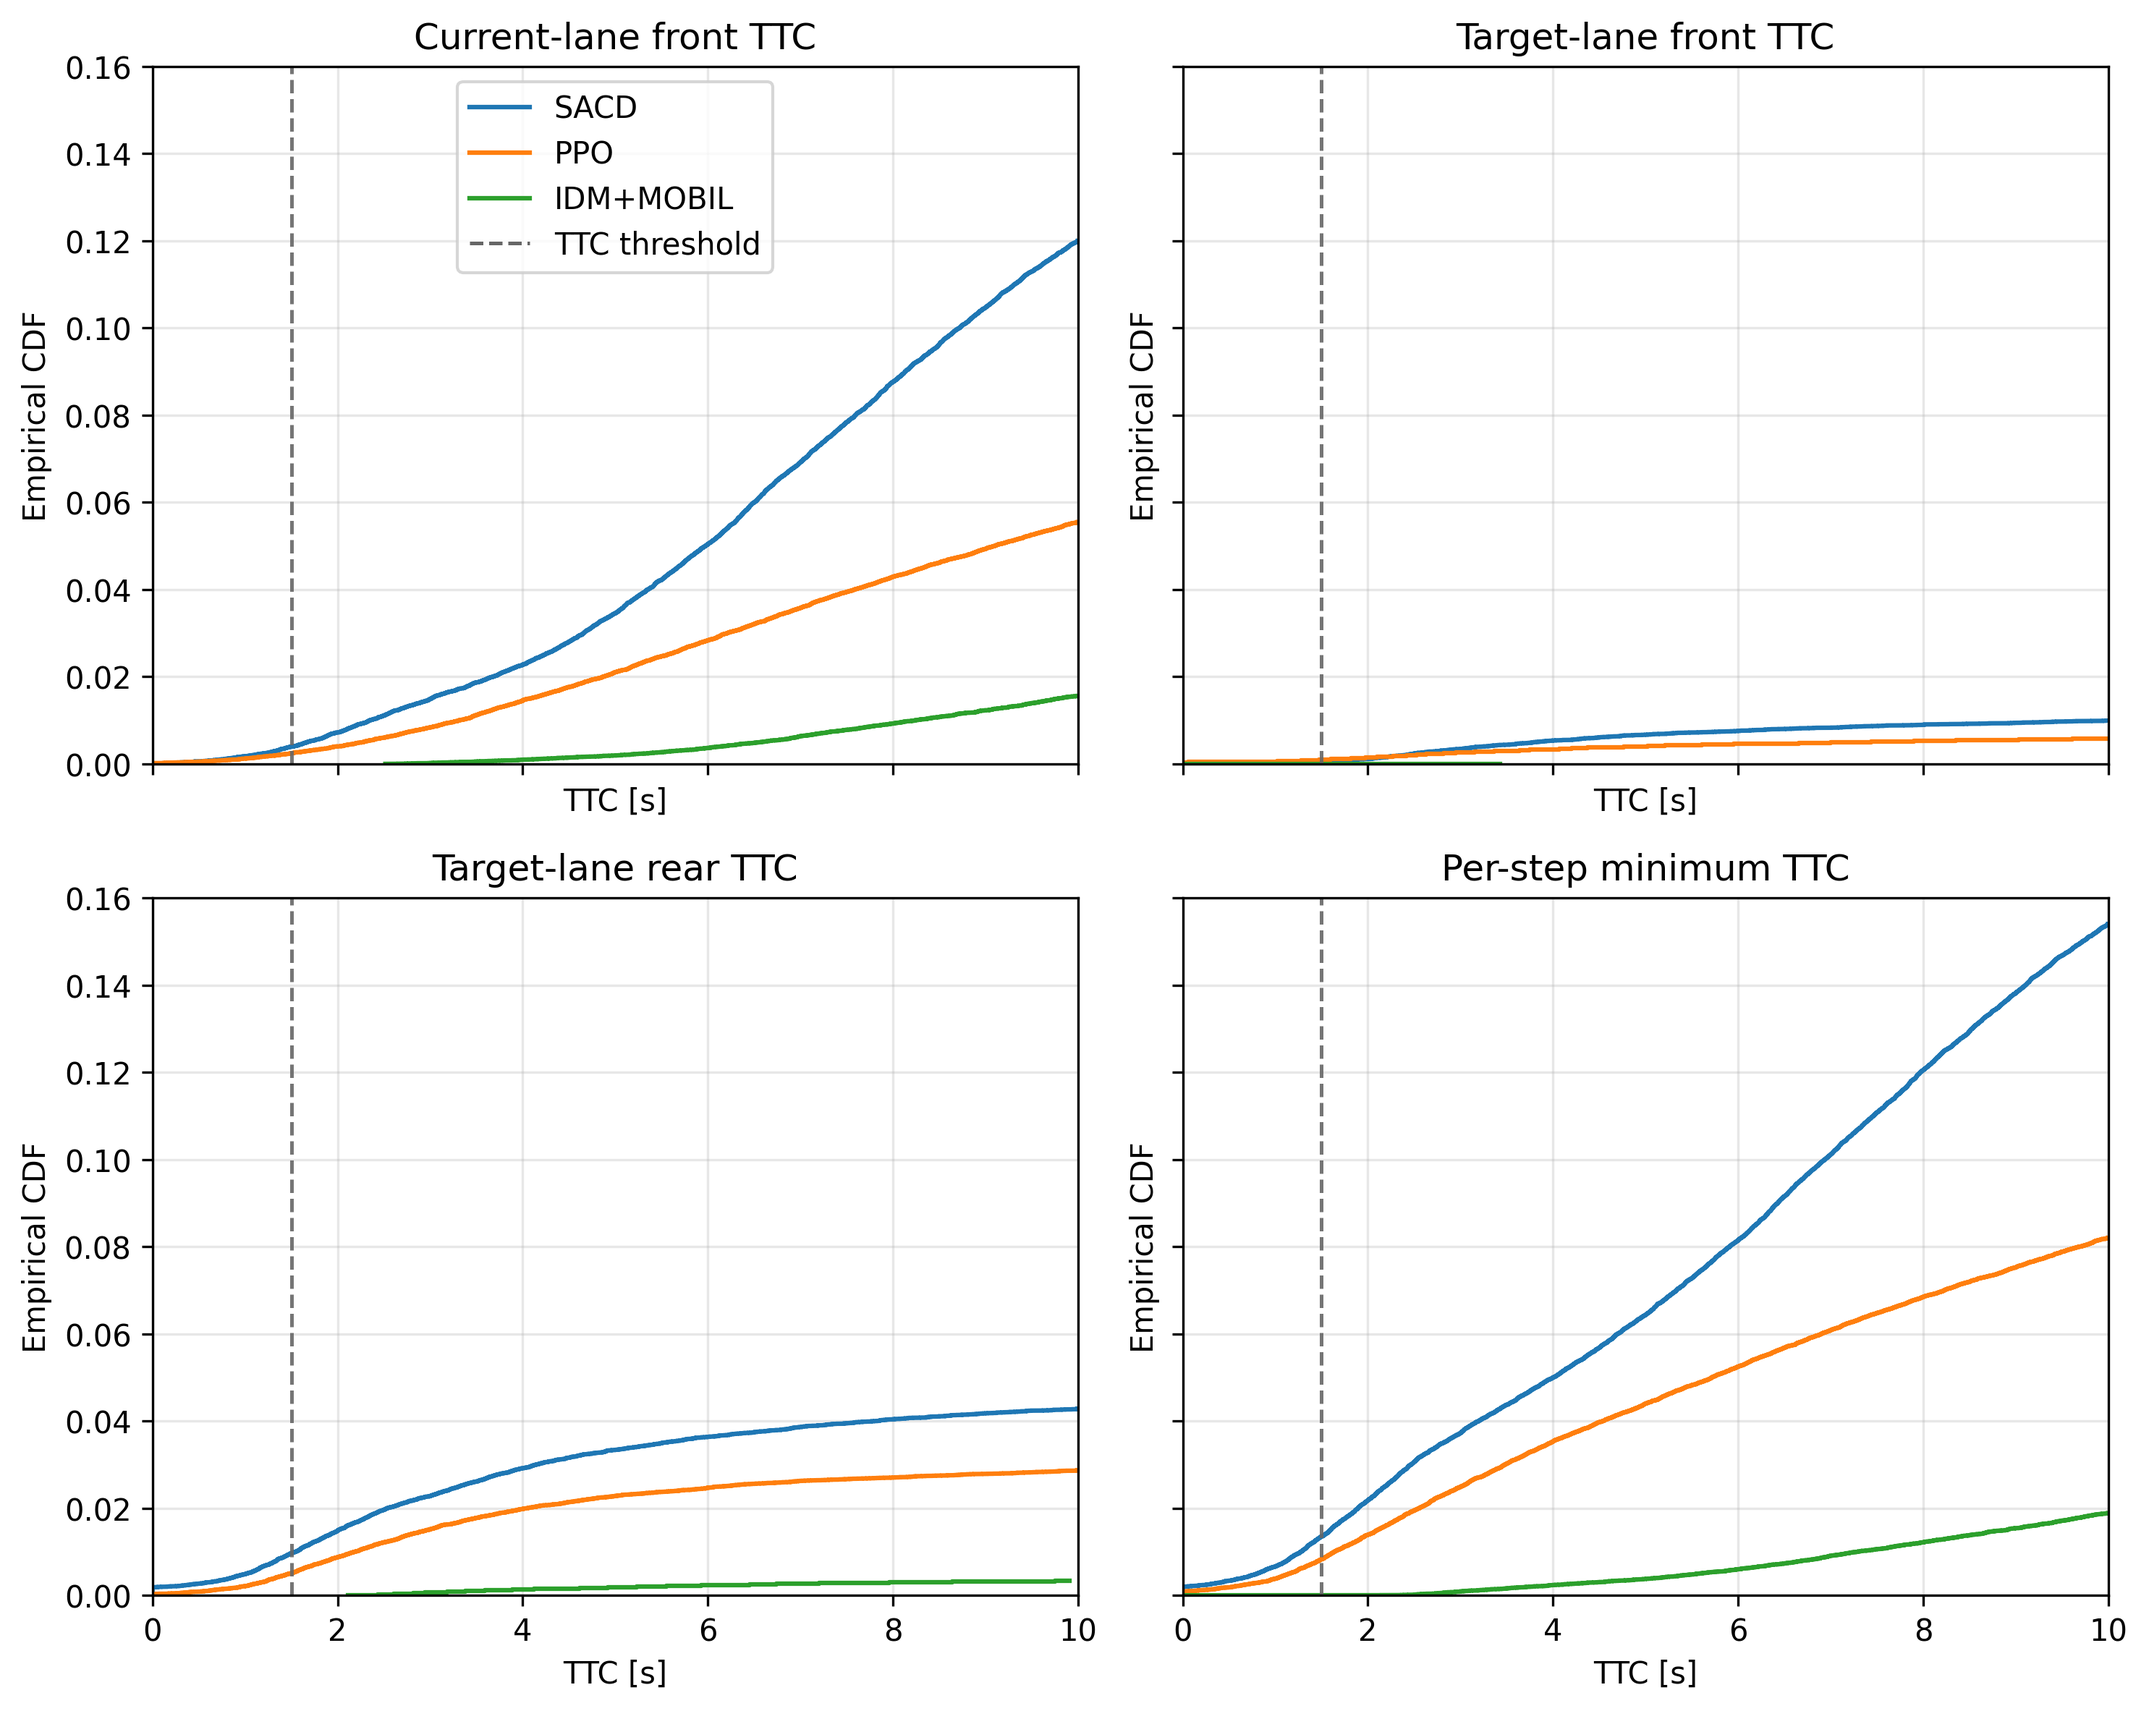
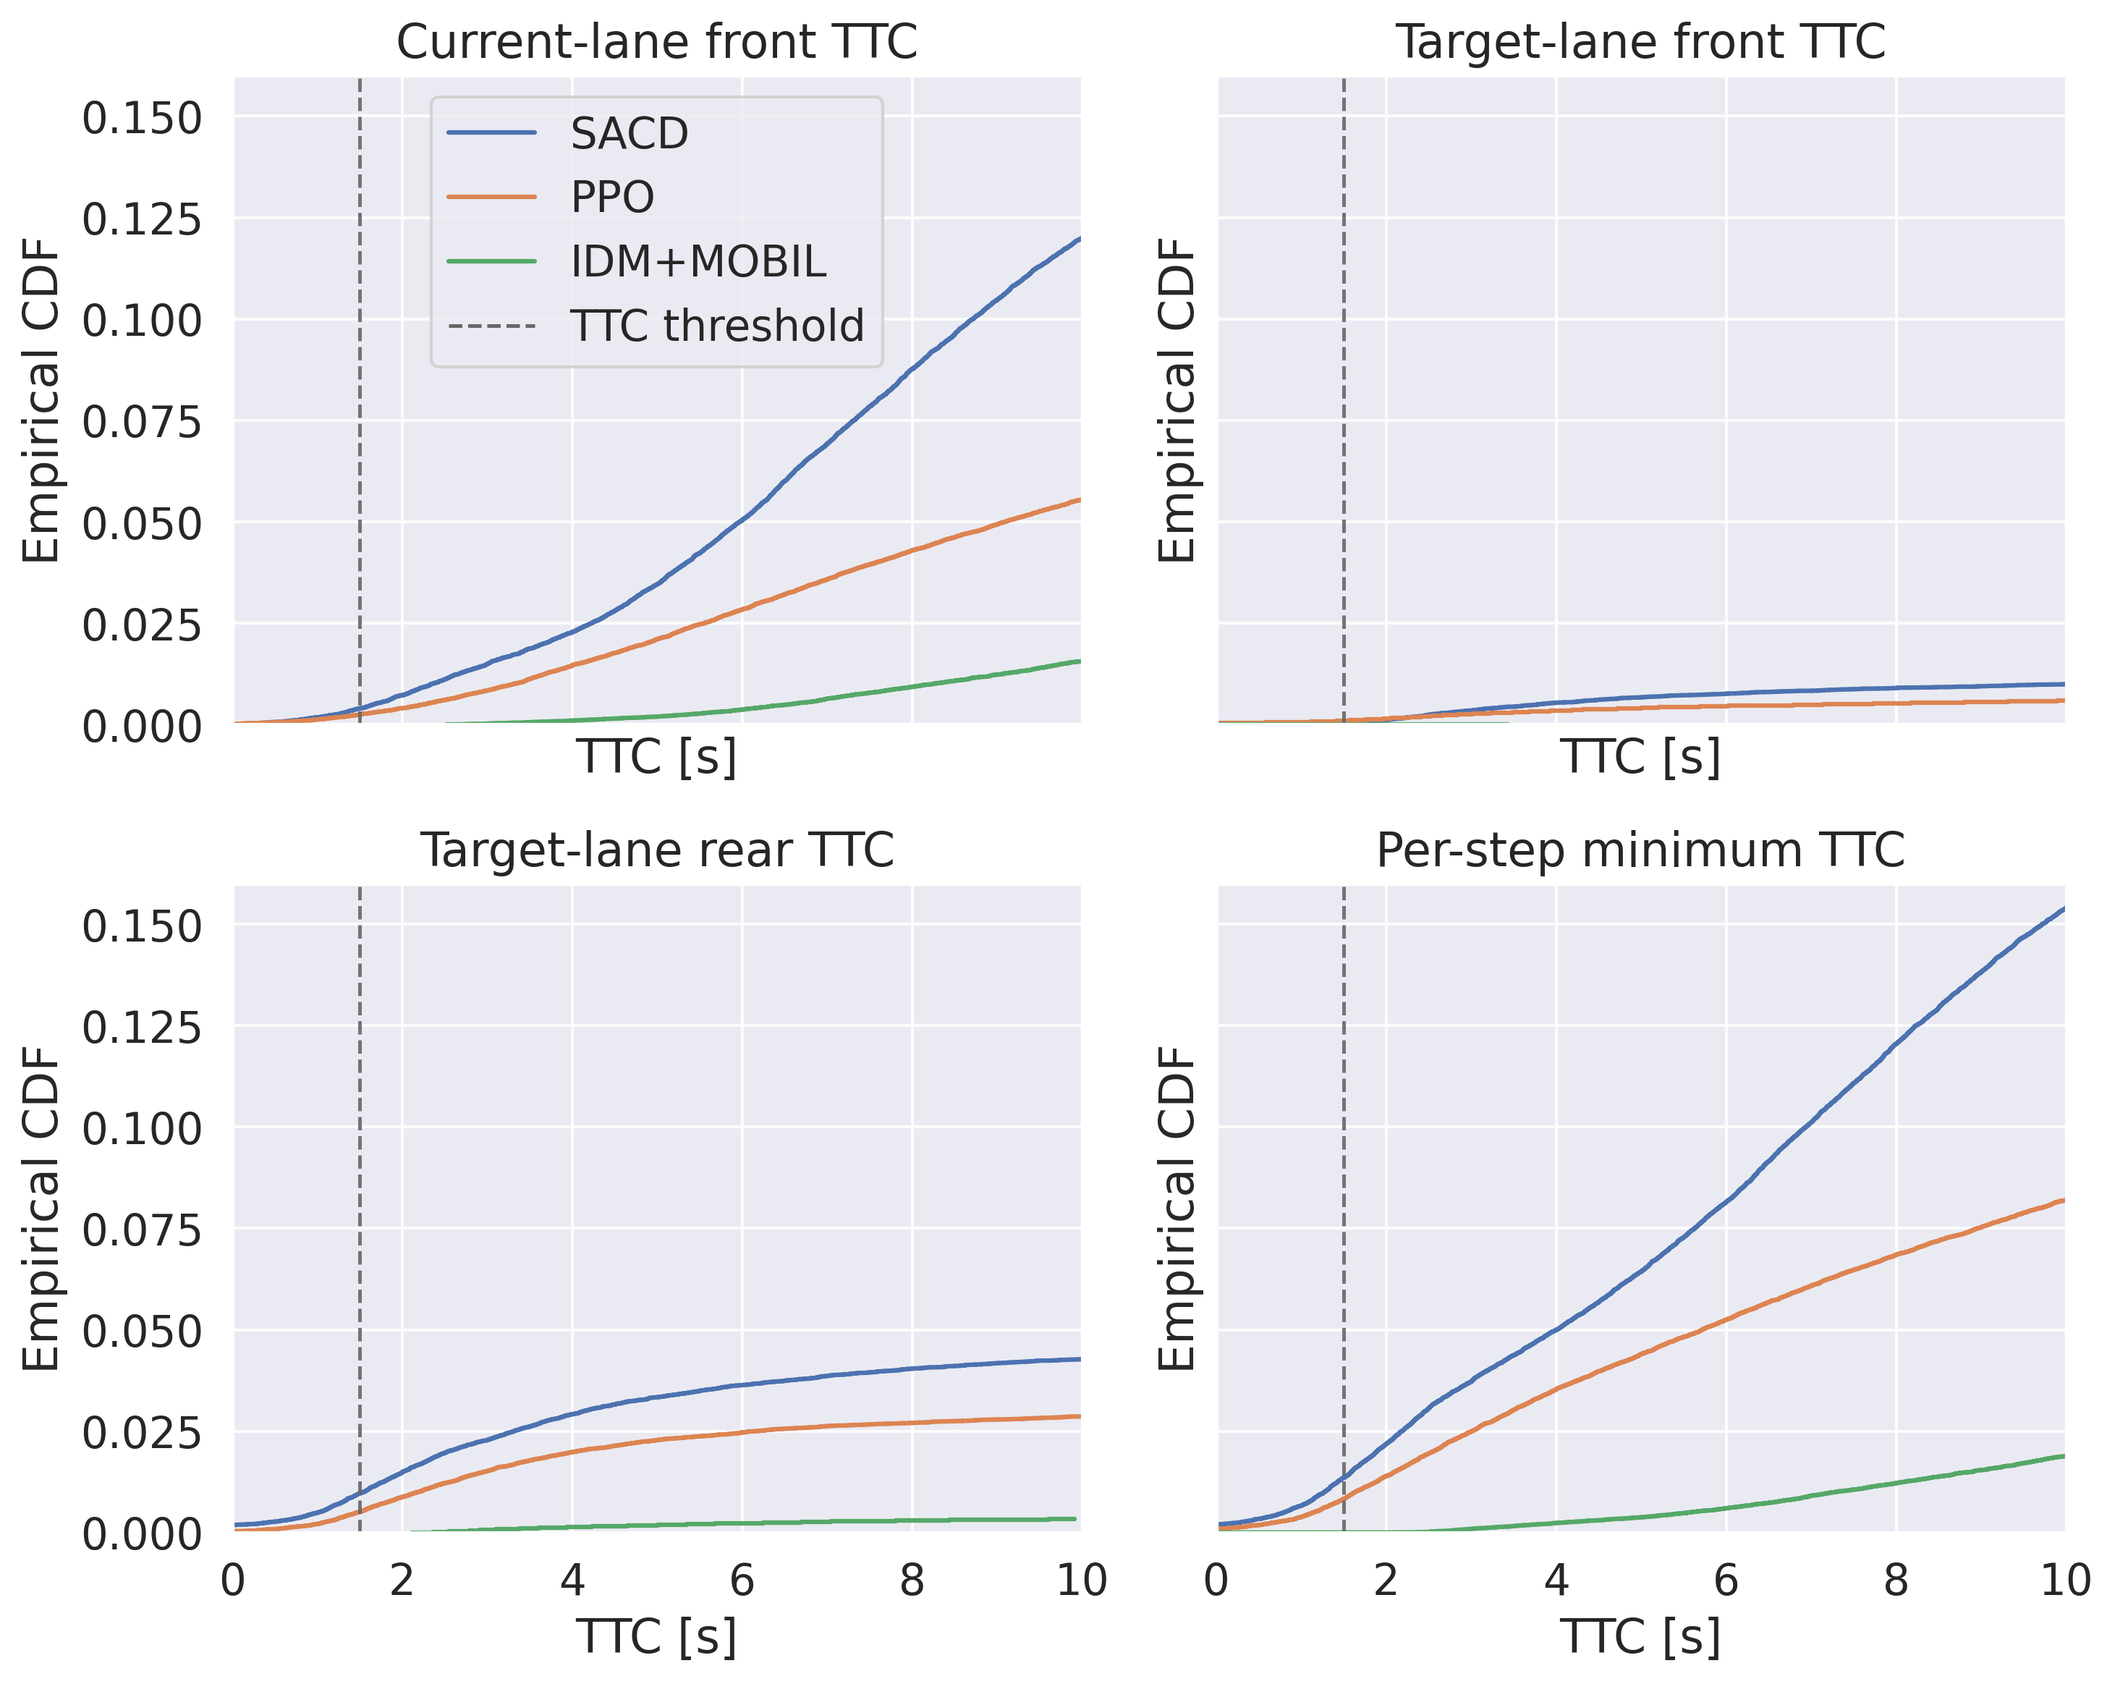
Added different driver behaviors to environment init and improved plotting for TTC CDF

diff --git a/highway-env/highway_env/envs/sa_merge_env.py b/highway-env/highway_env/envs/sa_merge_env.py
@@ -40,6 +40,9 @@ class SingleAgentMergeEnv(AbstractEnv):
                 "LANE_CHANGE_COST": 1,  # default=0.5
                 "traffic_density": 1,  # easy or hard modes
                 "use_weaving": True,
+                # Driving style used by all surrounding IDM/MOBIL vehicles.
+                # Supported values: "conservative", "nominal", "aggressive".
+                "hdv_driving_style": "nominal",
             }
         )
         return cfg
@@ -82,6 +85,9 @@ class SingleAgentMergeEnv(AbstractEnv):
           is first issued from the parallel on-ramp lane.
         * ``merged_now``: True on the step on which the merge is first
           recognized as successfully completed.
+        * ``time_to_merge``: elapsed time [s] from the beginning of the episode
+          until the first successful merge. It is ``np.nan`` before a merge
+          has been completed and for episodes in which no successful merge occurs.
 
         TTC is ``np.inf`` if no relevant vehicle exists or the relative
         longitudinal velocity is not closing.  The induced-braking value is
@@ -130,6 +136,11 @@ class SingleAgentMergeEnv(AbstractEnv):
 
         obs, reward, terminated, truncated, info = super().step(action)
 
+        # One call to step() advances the policy by one decision interval.
+        # Keeping this timer locally avoids relying on implementation details of
+        # AbstractEnv while remaining consistent with policy_frequency.
+        self._episode_elapsed_time += 1.0 / float(self.config["policy_frequency"])
+
         # Distinguish collisions in which another vehicle hits the ego from
         # behind. This is useful for open-loop trajectory replay (e.g. NGSIM),
         # where surrounding vehicles cannot react to the ego vehicle after it
@@ -148,6 +159,7 @@ class SingleAgentMergeEnv(AbstractEnv):
 
         if merged_now:
             self._merged_successfully = True
+            self._time_to_merge = float(self._episode_elapsed_time)
             merge_lane_index = self.vehicle.lane_index
             merge_front, merge_rear, front_gap, rear_gap = self._lane_neighbours(
                 self.vehicle,
@@ -182,6 +194,7 @@ class SingleAgentMergeEnv(AbstractEnv):
                 "accepted_merge_gap_rear": float(accepted_merge_gap_rear),
                 "merge_initiated_now": bool(merge_initiated_now),
                 "merged_now": bool(merged_now),
+                "time_to_merge": float(self._time_to_merge),
             }
         )
         return obs, reward, terminated, truncated, info
@@ -794,6 +807,8 @@ class SingleAgentMergeEnv(AbstractEnv):
         self._merge_gap_pending = False
         self._pending_merge_gap_front = np.nan
         self._pending_merge_gap_rear = np.nan
+        self._episode_elapsed_time = 0.0
+        self._time_to_merge = np.nan
 
         self._make_road()
 
@@ -924,6 +939,76 @@ class SingleAgentMergeEnv(AbstractEnv):
         road = self.road
         other_vehicles_type = utils.class_from_path(self.config["other_vehicles_type"])
 
+        # Select a homogeneous driving style for all surrounding HDVs.
+        # The route-specific RIGHT_BIAS is set separately below and is therefore
+        # intentionally not part of these behavior profiles.
+        driving_style = self.config.get("hdv_driving_style", "nominal").lower()
+        driving_styles = {
+            "conservative": {
+                "ACC_MAX": 15.0,
+                "COMFORT_ACC_MAX": 2.0,
+                "COMFORT_ACC_MIN": -3.0,
+                "DISTANCE_WANTED_OFFSET": 7.0,
+                "TIME_WANTED": 2.0,
+                "DELTA": 4.0,
+                "POLITENESS": 0.5,
+                "LANE_CHANGE_MIN_ACC_GAIN": 0.3,
+                "LANE_CHANGE_MAX_BRAKING_IMPOSED": 4.0,
+                "LANE_CHANGE_DELAY": 1.5,
+            },
+            "nominal": {
+                "ACC_MAX": 15.0,
+                "COMFORT_ACC_MAX": 3.0,
+                "COMFORT_ACC_MIN": -5.0,
+                "DISTANCE_WANTED_OFFSET": 5.0,
+                "TIME_WANTED": 1.5,
+                "DELTA": 4.0,
+                "POLITENESS": 0.0,
+                "LANE_CHANGE_MIN_ACC_GAIN": 0.1,
+                "LANE_CHANGE_MAX_BRAKING_IMPOSED": 9.0,
+                "LANE_CHANGE_DELAY": 1.0,
+            },
+            "aggressive": {
+                "ACC_MAX": 15.0,
+                "COMFORT_ACC_MAX": 4.0,
+                "COMFORT_ACC_MIN": -6.0,
+                "DISTANCE_WANTED_OFFSET": 3.0,
+                "TIME_WANTED": 1.0,
+                "DELTA": 4.0,
+                "POLITENESS": 0.0,
+                "LANE_CHANGE_MIN_ACC_GAIN": 0.0,
+                "LANE_CHANGE_MAX_BRAKING_IMPOSED": 9.0,
+                "LANE_CHANGE_DELAY": 0.5,
+            },
+        }
+
+        if driving_style not in driving_styles:
+            raise ValueError(
+                f"Unknown hdv_driving_style '{driving_style}'. "
+                f"Expected one of {tuple(driving_styles.keys())}."
+            )
+
+        style_parameters = driving_styles[driving_style]
+
+        def apply_hdv_driving_style(vehicle):
+            """Apply the selected IDM/MOBIL parameter set to one HDV instance."""
+            vehicle.ACC_MAX = style_parameters["ACC_MAX"]
+            vehicle.COMFORT_ACC_MAX = style_parameters["COMFORT_ACC_MAX"]
+            vehicle.COMFORT_ACC_MIN = style_parameters["COMFORT_ACC_MIN"]
+            vehicle.DISTANCE_WANTED = (
+                style_parameters["DISTANCE_WANTED_OFFSET"] + vehicle.LENGTH
+            )
+            vehicle.TIME_WANTED = style_parameters["TIME_WANTED"]
+            vehicle.DELTA = style_parameters["DELTA"]
+            vehicle.POLITENESS = style_parameters["POLITENESS"]
+            vehicle.LANE_CHANGE_MIN_ACC_GAIN = style_parameters[
+                "LANE_CHANGE_MIN_ACC_GAIN"
+            ]
+            vehicle.LANE_CHANGE_MAX_BRAKING_IMPOSED = style_parameters[
+                "LANE_CHANGE_MAX_BRAKING_IMPOSED"
+            ]
+            vehicle.LANE_CHANGE_DELAY = style_parameters["LANE_CHANGE_DELAY"]
+
         spawn_points_s1 = [10, 50, 90, 130, 170, 210, 225]
         spawn_points_s2 = [0, 40, 80, 120, 160, 200, 220]
         spawn_points_m = [5, 45, 85, 125, 165, 205, 225]
@@ -994,6 +1079,7 @@ class SingleAgentMergeEnv(AbstractEnv):
                 speed=initial_speed.pop(0),
                 use_deceleration=use_weaving,
             )
+            apply_hdv_driving_style(veh)
 
             if use_weaving:
                 veh.RIGHT_BIAS = biases.pop(0)
@@ -1016,6 +1102,7 @@ class SingleAgentMergeEnv(AbstractEnv):
                 speed=initial_speed.pop(0),
                 use_deceleration=use_weaving,
             )
+            apply_hdv_driving_style(veh)
 
             if use_weaving:
                 veh.RIGHT_BIAS = biases.pop(0)
@@ -1039,6 +1126,7 @@ class SingleAgentMergeEnv(AbstractEnv):
                 speed=initial_speed.pop(0),
                 use_deceleration=use_weaving,
             )
+            apply_hdv_driving_style(veh)
 
             # all merging vehicles want on main road (left bias)
             if use_weaving:

diff --git a/MARL/eval.py b/MARL/eval.py
@@ -346,6 +346,10 @@ def eval_policy(args):
     config["safety_guarantee"] = False
     config["traffic_density"] = args.difficulty
 
+    #config["hdv_driving_style"] = "conservative"
+    config["hdv_driving_style"] = "nominal"
+    #config["hdv_driving_style"] = "aggressive"
+
     if args.merging:
         config["use_weaving"] = False
 
@@ -358,8 +362,8 @@ def eval_policy(args):
 
 
     if not args.mobil:
-        #model = SACD.load(args.model)
-        model = DQN.load(args.model)
+        model = SACD.load(args.model)
+        # model = DQN.load(args.model)
         # model.set_random_seed(21)
         model.set_random_seed(args.seed)
 
@@ -390,12 +394,14 @@ def eval_policy(args):
     ttc_target_front_values = []
     ttc_target_rear_values = []
 
+    ttm_values = []
+
     os.makedirs(args.metrics_dir, exist_ok=True)
 
 
     # Run episodes until we have observed ``target_crashes`` crashes.
-    # while crashes < target_crashes:
-    while j < target_crashes:
+    while crashes < target_crashes:
+    #while j < target_crashes:
         done = truncated = False
         obs, info = env.reset()
         last_observation = obs
@@ -483,7 +489,7 @@ def eval_policy(args):
                 #np.save(f"initial_pos_{j}.npy", env.road.initial_vehicles)
 
         if info["crashed"]:
-            # t.update(1)
+            t.update(1)
             crashes += 1
             # save position of crash
             crash_positions.append(info["vehicle_position"][0])
@@ -496,9 +502,11 @@ def eval_policy(args):
 
         if "merged" in info and info["merged"]:  # and not info["other_crashes"]:
             sucessfull_merges += 1
+            if np.isfinite(float(info["time_to_merge"])):
+            ttm_values.append(float(info["time_to_merge"]))
 
         j += 1
-        t.update(1)
+        #t.update(1)
 
         # Update the progress description with current statistics.
         # Guard against division by zero – j is always >=1 here.
@@ -511,6 +519,7 @@ def eval_policy(args):
     print(f"Crashrate {crashes/j:.3f}")
     print(f"Average ego vehicle speed {speed/total_steps:.3f}")
     print(f"Average speed of all cars {road_speed/total_steps:.3f}")
+    print(f"Average time to merge {sum(ttm_values)/j:.3f}")
 
 
     metrics_dir = args.metrics_dir

diff --git a/MARL/vis/plot_ttc_stepwise_cdfs.py b/MARL/vis/plot_ttc_stepwise_cdfs.py
@@ -39,7 +39,11 @@ import argparse
 import os
 import numpy as np
 import matplotlib.pyplot as plt
+import seaborn as sns
 
+sns.set_theme()
+sns.set_context("paper")
+sns.set(font_scale=1.3)
 
 def parse_args():
     parser = argparse.ArgumentParser(
@@ -176,7 +180,7 @@ def plot_metric(ax, all_series, labels, title, threshold, x_max):
     ax.set_xlim(0.0, x_max)
     # ax.set_ylim(0.0, 1.0)
     ax.set_ylim(0.0, 0.16)
-    ax.grid(True, alpha=0.3)
+    ax.grid(True, alpha=0.9)
 
 
 def main():
